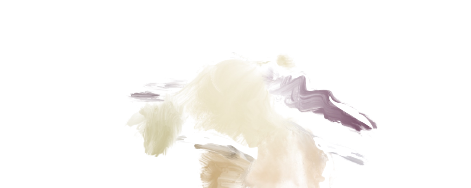
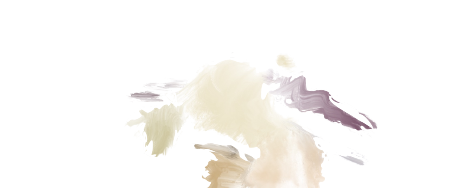
Base Index Item Div functioanlity / Sahara Image Update

diff --git a/frontend/src/components/ItemIndex/index.js b/frontend/src/components/ItemIndex/index.js
@@ -23,13 +23,15 @@ function ItemIndex() {
 
       return (
          <>
+            <div id='item'></div>
             <div id='filter-sidebar'>
-
+               Testing
             </div>
-            <div id='item-index-container'>
+            <div id='item-index-item-container'>
                <div id='item-index-header'>
-                  {items.map((item, i) => (<ItemIndexDiv item={item} key={item.id} />))}
+                  Results
                </div>
+               {items.map((item, i) => (<ItemIndexDiv item={item} key={item.id} />))}
             </div>
             <Footer/>
          </>

diff --git a/frontend/src/components/ItemIndex/ItemIndexDiv/index.js b/frontend/src/components/ItemIndex/ItemIndexDiv/index.js
@@ -9,8 +9,10 @@ function ItemIndexDiv( {item} ) {
 
    return (
       <div className="item-index-div">
-         <img className="item-index-image" src={item.photoUrls[1]}/>
-         <a href={`/items/${item.id}`}>{item.itemName}</a>
+         <a className="item-index-image-container" href={`/items/${item.id}`}>
+            <img className="item-index-image" src={item.photoUrls[1]}/>
+         </a>
+         <a className='item-index-name' href={`/items/${item.id}`}>{item.itemName}</a>
       </div>
    )
 }

diff --git a/frontend/src/components/ItemIndex/ItemIndexDiv/ItemIndexDiv.css b/frontend/src/components/ItemIndex/ItemIndexDiv/ItemIndexDiv.css
@@ -1,0 +1,26 @@
+.item-index-div {
+   width: 295px;
+   border: 1px solid rgb(250, 250, 250);
+   margin: 0px 8px;
+}
+
+.item-index-image-container {
+   width: 270px;
+   height: 270px;
+   background-color: rgb(247, 247, 247);
+}
+
+.item-index-image {
+   width: 270px;
+   height: 270px;
+   object-fit: contain;
+}
+
+.item-index-name {
+   text-decoration: none;
+   color: black;
+}
+
+.item-index-name:hover {
+   color: #c7511f;
+}

diff --git a/frontend/src/components/SplashPage/NavBar/index.js b/frontend/src/components/SplashPage/NavBar/index.js
@@ -1,7 +1,7 @@
 import React from "react";
 import SessionActionButton from "./SessionActionButton";
 import './NavBar.css'
-import logo from '../../../assets/images/sahara_white_text.png'
+import logo from '../../../assets/images/sahara_white_text_2.png'
 import cart from '../../../assets/images/shopping_cart.png'
 import NavSearchBar from "./NavSearchBar";
 

diff --git a/frontend/src/components/ItemIndex/ItemIndex.css b/frontend/src/components/ItemIndex/ItemIndex.css
@@ -1,0 +1,15 @@
+#filter-sidebar {
+   width: 200px;
+}
+
+#item-index-item-container {
+   display: flex;
+   flex-direction: row;
+   flex-wrap: wrap;
+}
+   
+#item-index-header {
+   width: 100%;
+   height: 20px;
+   border: 1px solid black;
+}
